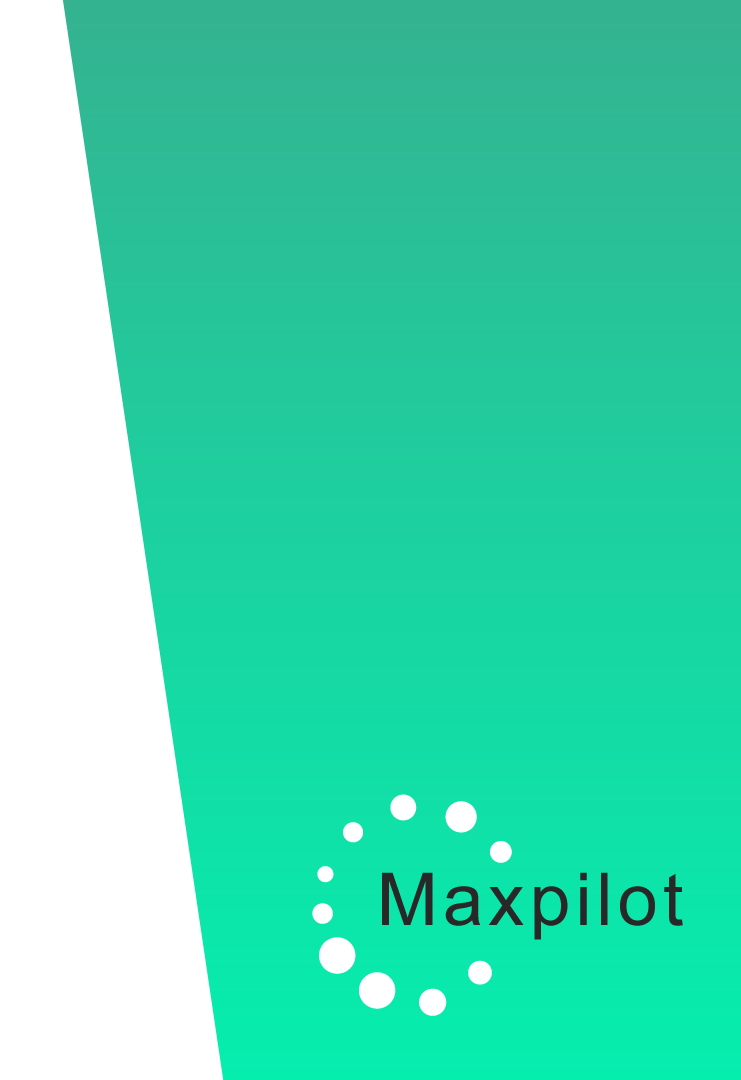
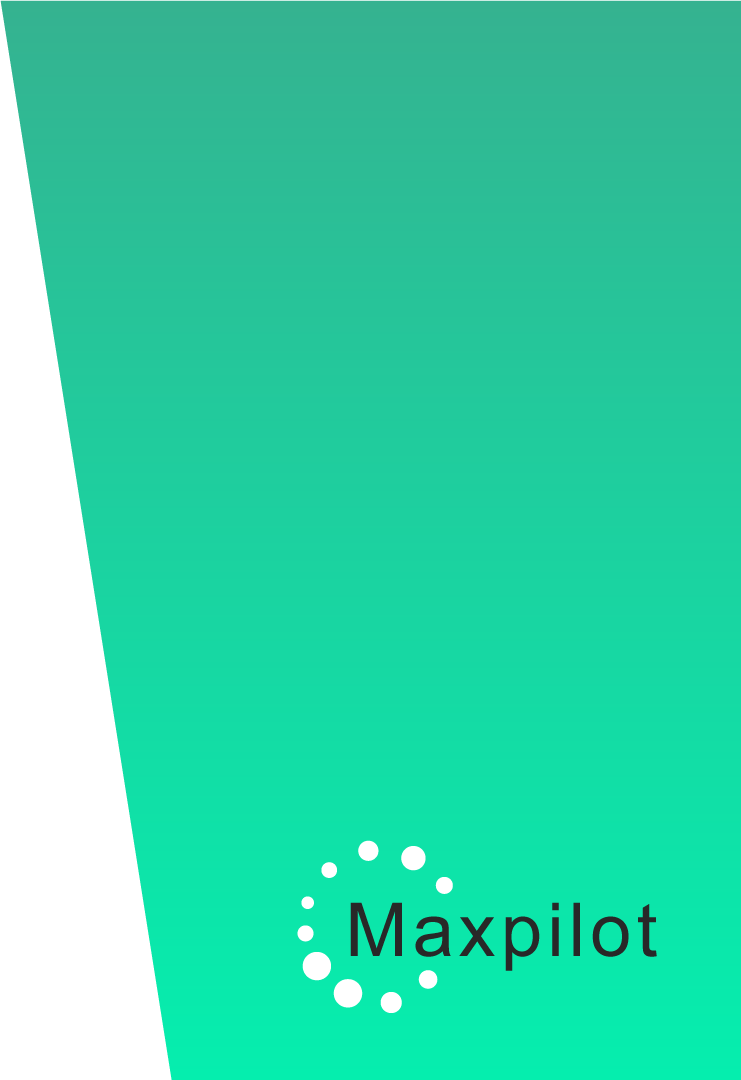
Minor fixes in Step1 background Image

Changed region(s): [[0.0, 0.0, 0.3104, 1.0], [0.4035, 0.7333, 0.9312, 0.9472]]

diff --git a/src/components/pages/Employment.jsx b/src/components/pages/Employment.jsx
@@ -7,6 +7,8 @@ import Box from "@mui/material/Box";
 // import ListItem from "@mui/material/ListItem";
 // import ListItemButton from "@mui/material/ListItemButton";
 // import ListItemText from "@mui/material/ListItemText";
+import AppBar from "@mui/material/AppBar";
+
 import Toolbar from "@mui/material/Toolbar";
 import Typography from "@mui/material/Typography";
 import Button from "@mui/material/Button";
@@ -32,7 +34,7 @@ const Item = styled("div")(({ theme }) => ({
   border: "none",
 }));
 
-// const drawerWidth = 240;
+const drawerWidth = 240;
 
 export default function Employment() {
   const [open, setOpen] = React.useState(false);
@@ -82,11 +84,89 @@ export default function Employment() {
         </Modal>
 
         <Box sx={{ display: "flex" }}>
+          <AppBar
+            style={{ background: "#ffffff", color: "black" }}
+            position="fixed"
+            sx={{
+              width: `calc(100% - ${drawerWidth}px)`,
+              ml: `${drawerWidth}px`,
+            }}
+            className="appbar-borders"
+          >
+            <Box
+              sx={{
+                border: "1px solid",
+                height: 80,
+                display: "flex",
+                justifyContent: "center",
+                alignItems: "center",
+              }}
+            >
+              <Typography
+                sx={{
+                  mr: 2,
+                }}
+              >
+                Me
+              </Typography>
+              <Typography
+                sx={{
+                  mr: 2,
+                }}
+              >
+                News Feed
+              </Typography>
+              <Typography
+                sx={{
+                  mr: 2,
+                }}
+              >
+                Task
+              </Typography>
+              <Typography
+                sx={{
+                  mr: 2,
+                }}
+              >
+                Locations
+              </Typography>
+              <Button
+                variant="contained"
+                className="btn-color"
+                sx={{
+                  mr: 2,
+                }}
+              >
+                People
+              </Button>
+              <Typography
+                sx={{
+                  mr: 2,
+                }}
+              >
+                Schedule
+              </Typography>
+              <Typography
+                sx={{
+                  mr: 2,
+                }}
+              >
+                TimeSheets
+              </Typography>
+              <Typography
+                sx={{
+                  mr: 2,
+                }}
+              >
+                Reports
+              </Typography>
+            </Box>
+          </AppBar>
           <VerticalMenu indexToHL={indexToHL} />
 
           <Box
             component="main"
-            sx={{ flexGrow: 1, bgcolor: "#fcfcfc", p: 3, pt: 1 }}
+            sx={{ flexGrow: 1, bgcolor: "#fcfcfc", p: 3, pt: 1, mt: 6 }}
           >
             <Toolbar />
             <Box sx={{ display: "flex", justifyContent: "space-between" }}>

diff --git a/src/components/pages/Step1.jsx b/src/components/pages/Step1.jsx
@@ -448,10 +448,19 @@ export default function BasicModal() {
             </Button>
           </Box>
         </Grid>
-        <Grid item xs={false} sm={4} md={5} sx={{ backgroundColor: "#FFFFFF" }}>
+        <Grid
+          item
+          xs={false}
+          sm={4}
+          md={5}
+          sx={{
+            backgroundColor: "#FFFFFF",
+          }}
+          // className="grid-background-image"
+        >
           <Avatar
             src={RightSideImage}
-            aria-label="UROOSTER"
+            aria-label="MaxPilot"
             sx={{
               height: "100vh",
               width: "100%",

diff --git a/src/style/Step1.css b/src/style/Step1.css
@@ -6,3 +6,8 @@
 .input-border-radius {
   border-radius: 7px;
 }
+.grid-background-image {
+  /* background-image: url("../../assets/images/bg-image.png"); */
+  background-image: url("../assets/images/bg-image.png");
+  background-repeat: no-repeat;
+}

diff --git a/src/style/Employment.css b/src/style/Employment.css
@@ -1,3 +1,8 @@
 ul {
   list-style-type: none !important;
 }
+
+.appbar-borders {
+  border: 0 !important;
+  border-bottom: 0 !important;
+}
